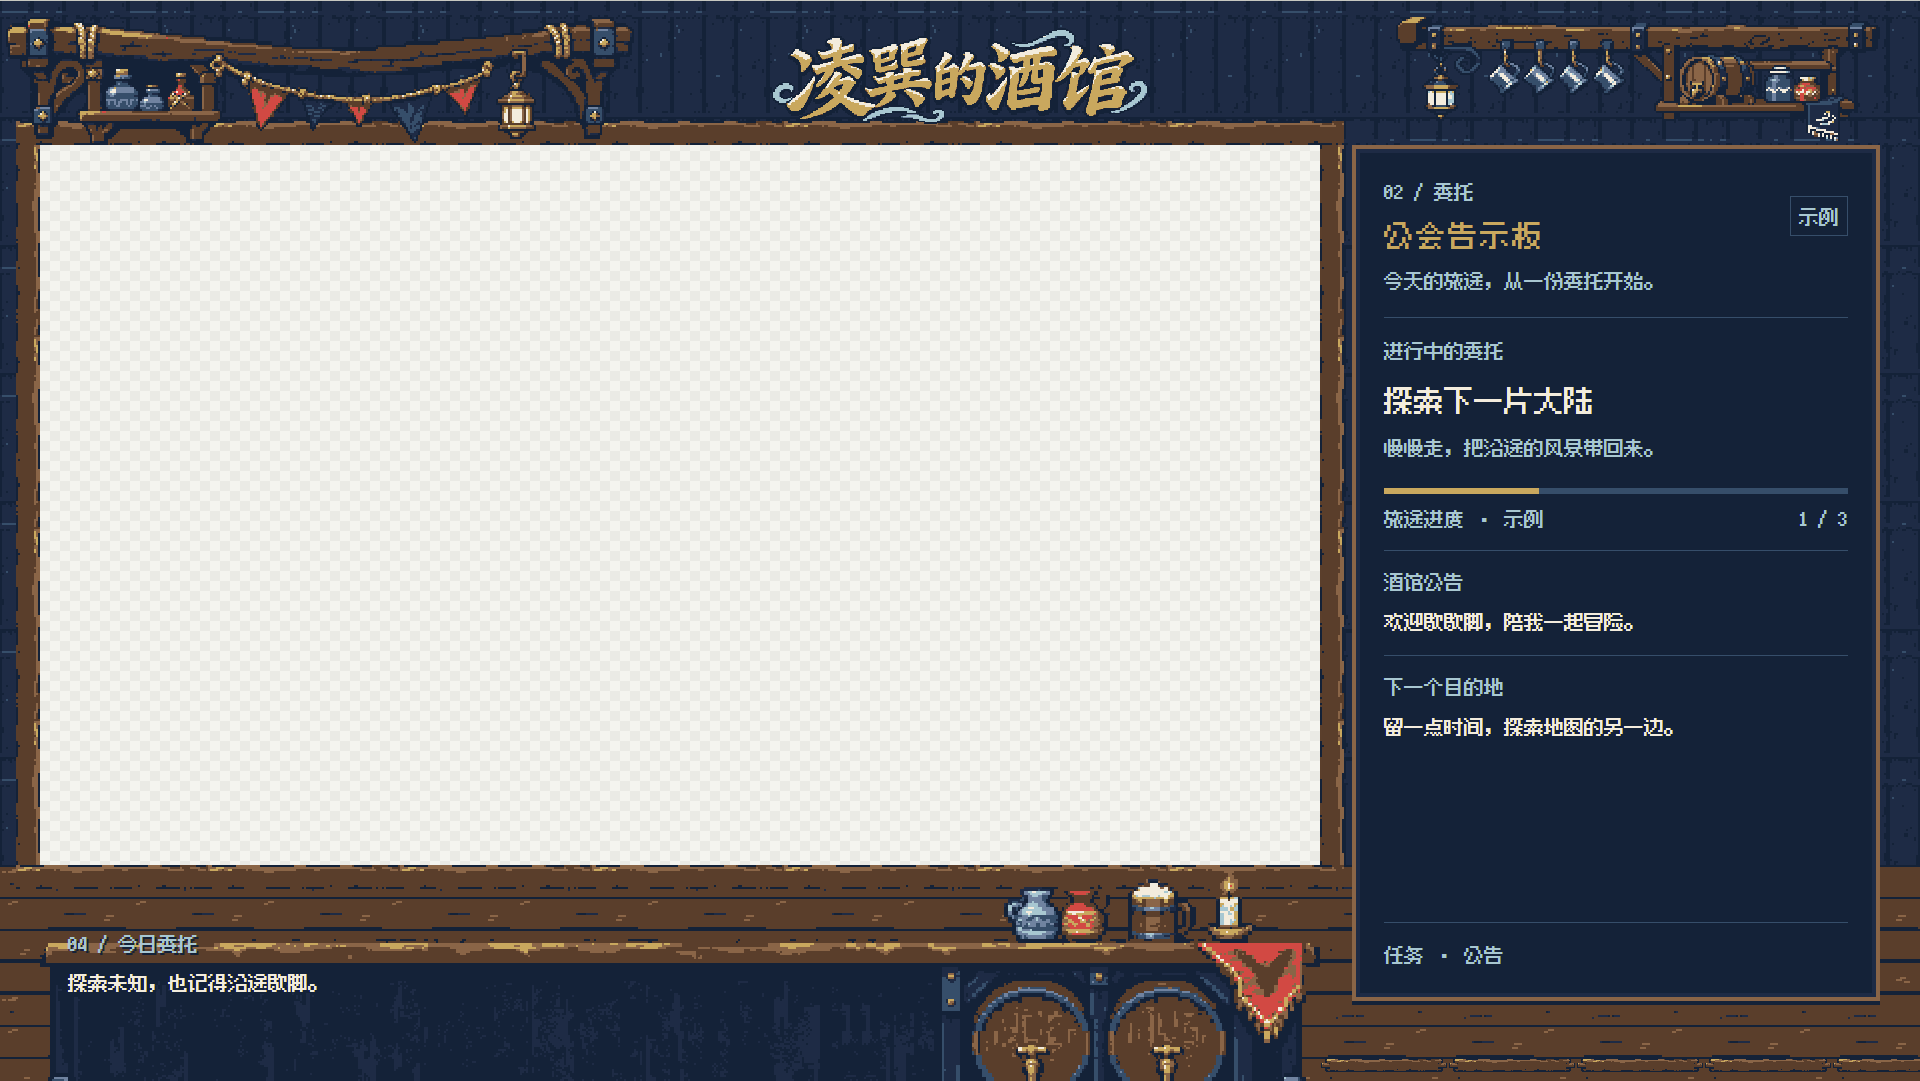
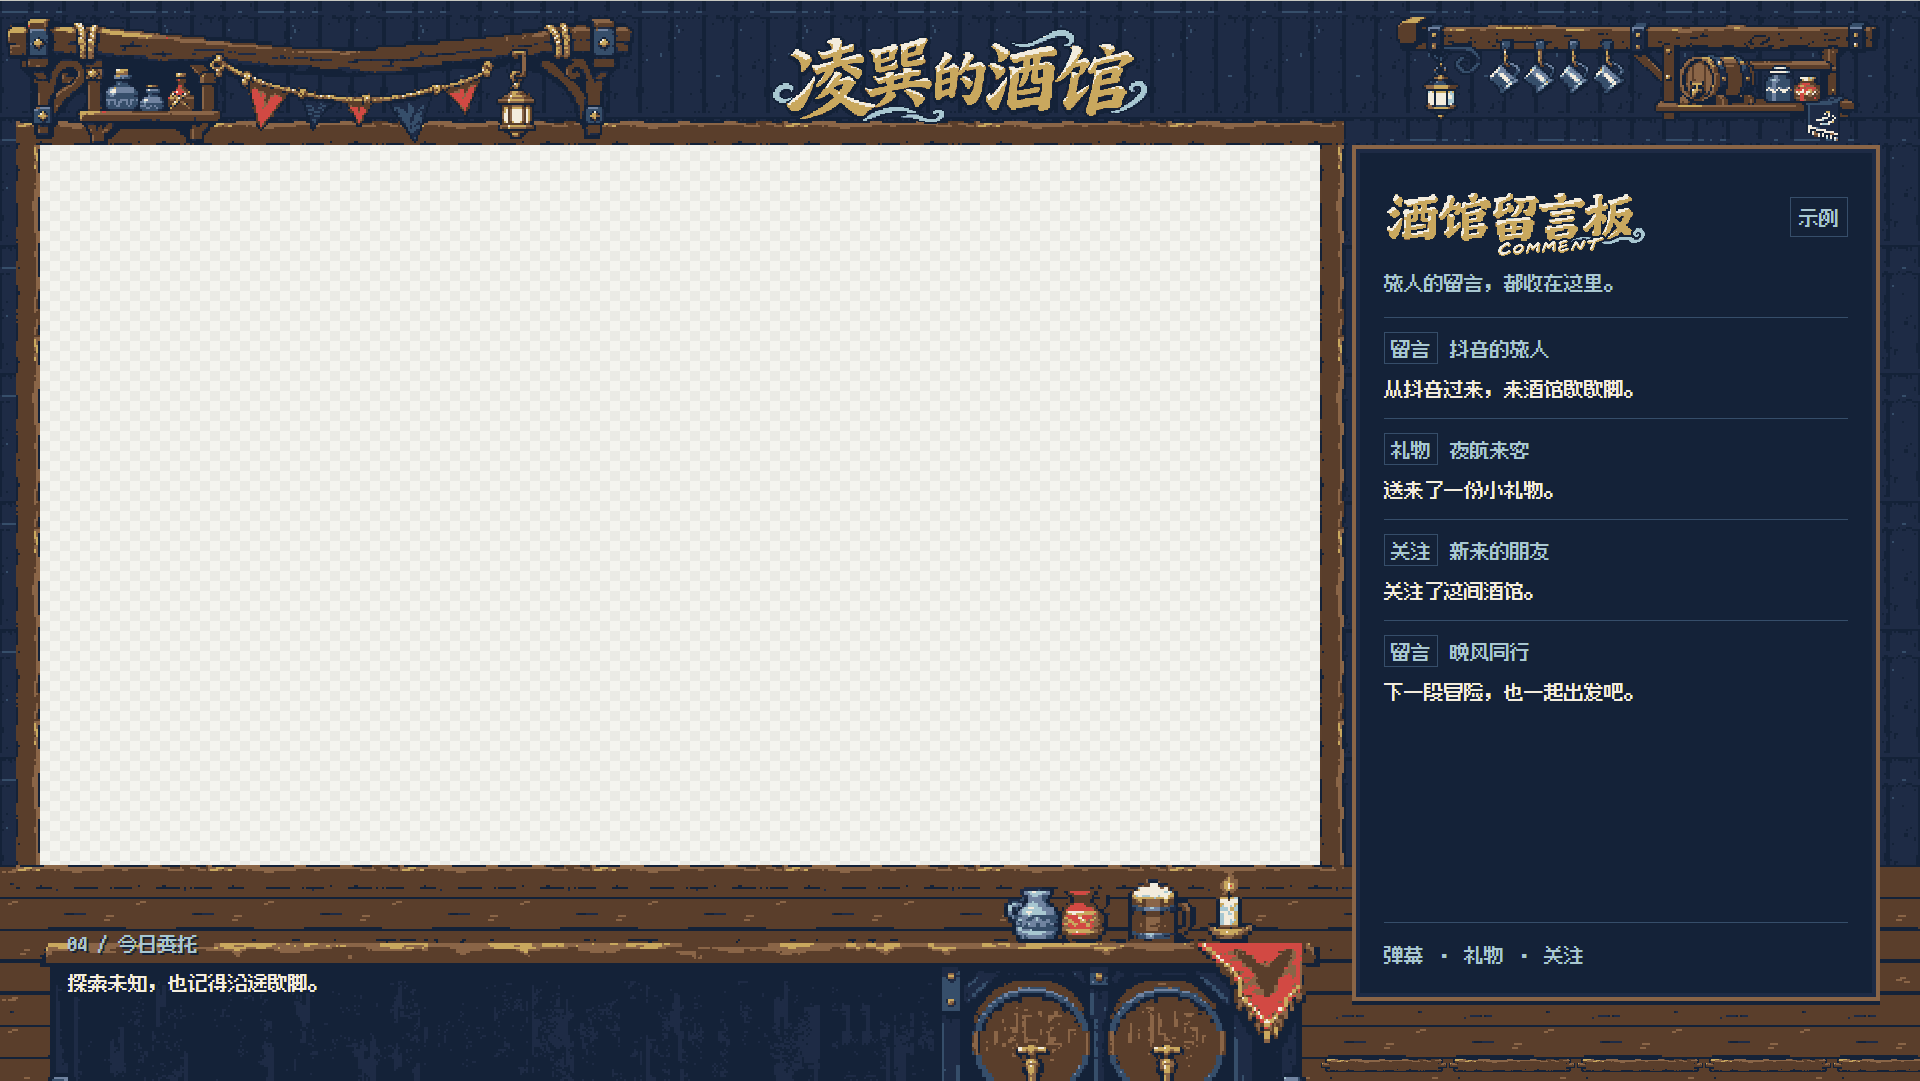
checkpoint: align platform appearance with separate message examples

Changed region(s): [[0.7188, 0.3053, 0.9688, 0.7021], [0.7188, 0.1526, 0.875, 0.2747], [0.7188, 0.8548, 0.7812, 0.8853]]

diff --git a/src/Overlay.tsx b/src/Overlay.tsx
@@ -5,52 +5,38 @@ export const platformNames: Record<Platform, string> = {
   douyin: '抖音',
 }
 
-const messages = [
-  { kind: '留言', name: '路过的冒险者', text: '晚上好，今天也来酒馆坐坐。' },
-  { kind: '礼物', name: '森林来信', text: '送来了一份小礼物。' },
-  { kind: '舰长', name: '远航的朋友', text: '加入了这次旅途。' },
-  { kind: 'SC', name: '山间的风', text: '愿下一段冒险，也有好风景。' },
-]
+const messages = {
+  bilibili: [
+    { kind: '留言', name: '路过的冒险者', text: '晚上好，今天也来酒馆坐坐。' },
+    { kind: '礼物', name: '森林来信', text: '送来了一份小礼物。' },
+    { kind: '舰长', name: '远航的朋友', text: '加入了这次旅途。' },
+    { kind: 'SC', name: '山间的风', text: '愿下一段冒险，也有好风景。' },
+  ],
+  douyin: [
+    { kind: '留言', name: '抖音的旅人', text: '从抖音过来，来酒馆歇歇脚。' },
+    { kind: '礼物', name: '夜航来客', text: '送来了一份小礼物。' },
+    { kind: '关注', name: '新来的朋友', text: '关注了这间酒馆。' },
+    { kind: '留言', name: '晚风同行', text: '下一段冒险，也一起出发吧。' },
+  ],
+}
 
-function BilibiliBoard({ lyrics }: { lyrics: boolean }) {
+function MessageBoard({ platform, lyrics }: { platform: Platform; lyrics: boolean }) {
   return (
-    <section className="side-board" aria-label="B 站留言板">
+    <section className="side-board" aria-label={`${platformNames[platform]}留言板`}>
       <div className="module-heading">
         <div><span className="module-index">02 / 留言</span><h2>酒馆留言板</h2></div>
         <span className="sample-tag">示例</span>
       </div>
       <p className="module-description">旅人的留言，都收在这里。</p>
       <div className="messages">
-        {messages.slice(0, lyrics ? 3 : 4).map(message => (
-          <div className="message" key={message.kind}>
+        {messages[platform].slice(0, lyrics ? 3 : 4).map(message => (
+          <div className="message" key={message.name}>
             <div className="message-meta"><span>{message.kind}</span><b>{message.name}</b></div>
             <p>{message.text}</p>
           </div>
         ))}
       </div>
-      <div className="board-footnote">弹幕 · 礼物 · 舰长 · SC</div>
-    </section>
-  )
-}
-
-function DouyinBoard({ lyrics }: { lyrics: boolean }) {
-  return (
-    <section className="side-board" aria-label="抖音任务与公告">
-      <div className="module-heading">
-        <div><span className="module-index">02 / 委托</span><h2>公会告示板</h2></div>
-        <span className="sample-tag">示例</span>
-      </div>
-      <p className="module-description">今天的旅途，从一份委托开始。</p>
-      <div className="quest">
-        <span className="small-label">进行中的委托</span>
-        <h3>探索下一片大陆</h3>
-        <p>慢慢走，把沿途的风景带回来。</p>
-        <div className="quest-progress"><i /></div>
-        <div className="quest-count"><span>旅途进度 · 示例</span><span>1 / 3</span></div>
-      </div>
-      <div className="notice"><span className="small-label">酒馆公告</span><p>欢迎歇歇脚，陪我一起冒险。</p></div>
-      {!lyrics && <div className="notice extra-notice"><span className="small-label">下一个目的地</span><p>留一点时间，探索地图的另一边。</p></div>}
-      <div className="board-footnote">任务 · 公告</div>
+      <div className="board-footnote">{platform === 'bilibili' ? '弹幕 · 礼物 · 舰长 · SC' : '弹幕 · 礼物 · 关注'}</div>
     </section>
   )
 }
@@ -73,7 +59,7 @@ export function Overlay({ platform, lyrics = true }: { platform: Platform; lyric
         <strong className="tavern-name">凌巽的酒馆</strong>
       </header>
       <aside className={`side-column ${lyrics ? '' : 'without-lyrics'}`}>
-        {platform === 'bilibili' ? <BilibiliBoard lyrics={lyrics} /> : <DouyinBoard lyrics={lyrics} />}
+        <MessageBoard platform={platform} lyrics={lyrics} />
         {lyrics && <Lyrics />}
       </aside>
       <section className="stream-info" aria-label="今日委托">

diff --git a/src/scene-review.css b/src/scene-review.css
@@ -6,10 +6,10 @@
 .scene-preview .tavern-name { visibility: hidden; }
 .scene-preview .side-board, .scene-preview .lyrics-board { border-width: 4px; box-shadow: inset 0 0 0 4px #1E2B45, 0 4px #142238; }
 .scene-preview .module-heading h2 { color: #C9A85E; font-size: 30px; line-height: 1.4; font-weight: 400; }
-.scene-preview [data-platform='bilibili'] .module-heading h2 { width: 288px; height: 80px; margin-top: 0; font-size: 0; background: url('../assets/generated/cp3/comment-wordmark.png') -15px center / 288px 96px no-repeat; image-rendering: pixelated; }
-.scene-preview [data-platform='bilibili'] .module-heading .module-index { display: none; }
-.scene-preview [data-platform='bilibili'] .messages { margin-top: 18px; }
-.scene-preview [data-platform='bilibili'] .message { padding: 14px 0; }
+.scene-preview .module-heading h2 { width: 288px; height: 80px; margin-top: 0; font-size: 0; background: url('../assets/generated/cp3/comment-wordmark.png') -15px center / 288px 96px no-repeat; image-rendering: pixelated; }
+.scene-preview .module-heading .module-index { display: none; }
+.scene-preview .messages { margin-top: 18px; }
+.scene-preview .message { padding: 14px 0; }
 .scene-preview .lyrics-board { padding: 16px 28px; }
 .scene-preview .lyrics-heading .module-index { display: block; width: 240px; height: 72px; font-size: 0; background: url('../assets/generated/cp3/playing-wordmark.png') -11px center / 240px 80px no-repeat; image-rendering: pixelated; }
 .scene-preview .song-title { margin-top: 6px; }

diff --git a/src/main.tsx b/src/main.tsx
@@ -113,7 +113,7 @@ function Preview({ scene = false }: { scene?: boolean }) {
 
       <div className="review-details">
         <section className="layout-notes" aria-labelledby="layout-notes-title"><p className="eyebrow">APPROVED LAYOUT</p><h2 id="layout-notes-title">已确认的区域比例。</h2>
-          <ol><li><span>01</span><div><h3>完整游戏区</h3><p>1280 × 720，16∶9 透明窗口。</p></div></li><li><span>02</span><div><h3>双平台右栏</h3><p>宽 528px，分别承载留言板与任务公告。</p></div></li><li><span>03</span><div><h3>歌词开关</h3><p>关闭后右侧主面板扩展。当前均为示例内容。</p></div></li></ol>
+          <ol><li><span>01</span><div><h3>完整游戏区</h3><p>1280 × 720，16∶9 透明窗口。</p></div></li><li><span>02</span><div><h3>双平台右栏</h3><p>宽 528px，同一套外观，各自显示本平台留言。</p></div></li><li><span>03</span><div><h3>歌词开关</h3><p>关闭后右侧主面板扩展。当前均为示例内容。</p></div></li></ol>
         </section>
         <section className="source-notes" aria-labelledby="source-notes-title"><p className="eyebrow">TWO INDEPENDENT SOURCES</p><h2 id="source-notes-title">同一间酒馆，两个窗口。</h2><p>这两个地址可同时打开。直播软件中的网页素材尺寸均设为 1920 × 1080。</p>
           <a href="/live/bilibili" target="_blank" rel="noreferrer"><strong>B 站</strong><code>/live/bilibili</code><span aria-hidden="true">↗</span></a>

diff --git a/docs/DANMAKU_SOURCES.md b/docs/DANMAKU_SOURCES.md
@@ -1,0 +1,35 @@
+# 双平台独立弹幕接入调研
+
+2026-11-07，香港时间。当前已完成文档核查，真实直播间连接等待接口阶段实测。
+
+## 用户确认的模式
+
+两个平台使用同一套背景、留言板排版和艺术字。B 站页面 `/live/bilibili` 显示 B 站事件，抖音页面 `/live/douyin` 显示抖音事件。每个平台单独保存直播间地址及适配器连接参数，分别管理状态和重连。后台修改一个平台的房间时，仅该平台重新连接。事件保留平台标识，两个页面的订阅分别过滤。
+
+直播间地址用于选择采集目标，网页源地址用于直播软件加载装饰画面。接入时需要将各平台原始数据解析为本项目事件格式，再投递至对应页面。
+
+## 抖音可获取弹幕的方式
+
+### 官方直播互动工具
+
+官方文档列有全量评论、用户昵称/ID 等能力。当前接入指南页首注明暂时停止新插件准入，因此本项目能否获得权限仍需实际申请结果确认。涉及网络请求的互动工具另有抖音云部署要求，需结合最终工具形态确认适用条件。
+
+[互动工具接入指南](https://partner.open-douyin.com/docs/resource/zh-CN/live-interactive-tools/introduction/interactive-tools-guide)
+
+[直播互动工具接入抖音云指南](https://partner.open-douyin.com/docs/resource/zh-CN/live-interactive-tools/development/douyin-cloud/live-interaction-guide-dycloud)
+
+官方直播小玩法的评论能力用于挂载玩法后的特殊评论指令，并有形态及提案要求，选择方案时需核对其适用范围。
+
+[直播间评论互动能力](https://partner.open-douyin.com/docs/resource/zh-CN/interaction/jierushuoming/hudongshuju/pinglunshuju/)
+
+[直播玩法简介](https://partner.open-douyin.com/docs/resource/zh-CN/interaction/introduction/live-play/1)
+
+### 第三方采集工具
+
+`saermart/DouyinLiveWebFetcher` 的作者提供网页版直播弹幕与互动消息采集实现，README 记有 2026-08-26 的成功测试记录。仓库标记 AGPL-3.0，README 同时提出学习研究及商业使用相关声明，后续选型需核对这些条款。该项目可证明存在技术实现路径，其在本机和目标直播间的可用性仍需实测。平台接口或签名变化会影响可用性。
+
+[项目原始仓库、README 及许可](https://github.com/saermart/DouyinLiveWebFetcher)
+
+## 本项目的阶段安排
+
+CP3 统一两平台留言板外观，并各自展示本平台静态示例。CP5 提供分平台房间和连接设置。CP7 根据可获得的官方权限或已核验的外部采集器，分别验证 B 站与抖音的真实消息、断线重连、重复消息和互不串台。连接成功以实际收到对应直播间事件为准。

diff --git a/docs/PROJECT_SPEC.md b/docs/PROJECT_SPEC.md
@@ -11,7 +11,7 @@
 | 路由 | 职责 | 当前布局 |
 | --- | --- | --- |
 | `/live/bilibili` | B 站独立直播源 | 透明线框与明确标注的示例内容 |
-| `/live/douyin` | 抖音独立直播源 | 任务公告线框与明确标注的示例内容 |
+| `/live/douyin` | 抖音独立直播源 | 留言板线框与明确标注的抖音示例内容 |
 | `/admin` | 统一管理后台 | 只读系统状态和页面入口 |
 | `/preview` | 布局预览 | 历史已确认布局，支持歌词开关的线框展示 |
 | `/assets/review` | CP2 素材展示板 | 已验收的三件独立素材 |
@@ -23,7 +23,7 @@
 
 ## 后续功能
 
-B 站提供统一互动消息流，纳入弹幕、礼物、连续赠礼、大航海和 SC。抖音首期提供公会任务、今日公告和目标卡。网易云适配器提供经过实测的歌名、艺术家、播放状态、进度与同步歌词。歌词关闭后右侧主面板扩展。
+B 站与抖音采用相同的酒馆背景、艺术字与留言板样式。每个平台通过自己的专属页面显示本平台弹幕，分别设置直播间地址，分别连接、保存设置和报告状态。B 站互动消息可包含弹幕、礼物、连续赠礼、大航海和 SC，抖音事件按实际适配器支持范围处理。网易云适配器提供经过实测的歌名、艺术家、播放状态、进度与同步歌词。歌词关闭后右侧主面板扩展。
 
 场景按后续检查点提供游戏直播、酒馆夜话、开播等待、暂时离席、酒馆打烊。统一后台最终支持双平台预览、场景切换、全局委托、平台独立设置、状态监控、设置保存和备份恢复。
 
@@ -51,6 +51,8 @@ B 站提供统一互动消息流，纳入弹幕、礼物、连续赠礼、大航
 酒杯、木桌和蜡烛三个原创透明像素 PNG 已于 2026-11-07 获用户验收，可作为 CP3 场景组合素材。
 
 ## CP3 当前范围
+
+用户明确将抖音从任务公告模式调整为留言板模式。两个平台外观一致，各自使用独立消息列表和专属路由。CP3 交付平台标记清楚的静态示例，真实房间地址设置与采集连接按后续配置及接口检查点验收。方法调研见 `DANMAKU_SOURCES.md`。
 
 CP3 首版因道具孤立、场景缺乏整体视觉焦点而返修。返修可增加透明的融合式酒馆场景组，并单独生成“凌巽的酒馆”五字标题图；场景预览中的栏目和 UI 文案使用随项目分发、覆盖简体中文的像素字体。通过离线脚本和可编辑 JSON 组合 1920×1080 无 UI 背景，继续遵守 V2 色板与真实 alpha。透明游戏区保持 x=40、y=144、1280×720，所有已验收 CP1 区域位置和比例不变；只在 `/scene/review` 验收，不改动直播源或推进 CP4。
 

diff --git a/docs/CP3_REVIEW.md b/docs/CP3_REVIEW.md
@@ -4,6 +4,8 @@
 
 ## 当前预览
 
+本轮追加双平台外观统一，抖音由任务公告改为与 B 站相同样式的留言板。两端各自展示本平台静态示例，分别保留专属路由。真实房间地址设置和采集连接按 CP5、CP7 验收，方案与当前接入限制见 `DANMAKU_SOURCES.md`。
+
 [CP3 场景验收页](http://127.0.0.1:3000/scene/review)
 
 本轮重做梁架与吧台组合，左右上角采用不同陈设，并制作三份独立标题图。留言板和播放区的中英文艺术字共同生成为透明图像，英文较小并与中文做轻微前后叠压。栏目正文使用本地 Fusion Pixel Font 10px 简中比例版。
@@ -43,6 +45,7 @@
 | 配方复现 | 移动物件后哈希改变，恢复配方后与交付背景哈希一致 |
 | 非法配置 | 八类非法布局及四类非法源区域被拒绝，已有输出保留 |
 | 浏览器场景 | Edge 中 B 站/抖音和歌词开/关四种组合通过 |
+| 双平台外观和示例 | 两端背景和标题样式一致，各自专属路由只展示本平台静态示例，四种组合通过 |
 | 排版 | 四种组合的面板内容完整，今日委托和歌词文字处于容器内 |
 | 下载 | 十二件素材及背景共十三个 PNG 的 SHA256 与仓库一致，布局 JSON 一致 |
 | 375px 窄窗口 | 页面滚动宽度为 375px |
@@ -68,8 +71,9 @@
 - `assets/fonts/fusion-pixel/` 中的 WOFF2、OFL、三份上游许可及来源记录。
 - `assets/layouts/cp3-tavern.json`、`assets/backgrounds/cp3-tavern.png`、`assets/manifest.json`。
 - `scripts/prepare-cp2-assets.ps1`、`scripts/compose-cp3-scene.ps1`。
-- `src/main.tsx`、`src/scene-review.css`。
+- `src/Overlay.tsx`、`src/main.tsx`、`src/scene-review.css`。
 - `AGENTS.md`、`README.md`、`docs/V2_BRIEF.md`、`docs/PROJECT_SPEC.md`、`docs/DESIGN_SYSTEM.md`、`docs/ASSET_POLICY.md`、`docs/ARCHITECTURE.md`、`docs/CHECKPOINTS.md`、`docs/DECISIONS.md`、`docs/TEST_PLAN.md`。
 - 本报告、六份机器检查记录和七张返修截图。
+- `docs/DANMAKU_SOURCES.md` 记录抖音官方及第三方接入方式、来源链接和待实测条件。
 
-本地 Git 快照标签为 `checkpoint/cp3-revision`，提交号由聊天交付。下一检查点等待用户明确验收。直播客户端的透明显示和音画捕获等待 CP8 实机验收。
+美术返修快照标签为 `checkpoint/cp3-revision`，双平台外观统一的追加快照为 `checkpoint/cp3-platforms`，提交号由聊天交付。下一检查点等待用户明确验收。直播客户端的透明显示和音画捕获等待 CP8 实机验收。

diff --git a/docs/V2_BRIEF.md b/docs/V2_BRIEF.md
@@ -842,17 +842,9 @@ assets/manifest.json
 
 ## 7.3 抖音平台
 
-第一阶段不依赖非官方弹幕采集工具。
+用户于 2026-11-07 将抖音调整为与 B 站外观一致的独立酒馆留言板和歌词组件。两个平台各有专属页面，分别设置直播间地址，分别接收本平台事件。静态预览采用明确标记的本平台示例。CP5 提供独立设置，CP7 验证实际弹幕来源、连接状态和平台隔离。
 
-右侧改为：
-
-- 公会任务卡
-- 今日公告
-- 游戏目标
-- 直播信息
-- 歌词组件
-
-不显示没有数据的空聊天框。
+抖音接入需区分开放平台工具能力与第三方采集方式，按实际可获得的权限、适用范围及许可选型。调研记录见 `DANMAKU_SOURCES.md`。
 
 ## 7.4 网易云歌词
 
@@ -873,7 +865,7 @@ assets/manifest.json
 
 B 站聊天区自动扩展。
 
-抖音公会任务区自动扩展。
+抖音留言板自动扩展。
 
 歌词来源和网易云播放器连接方式必须经过实际验证。
 
@@ -956,7 +948,7 @@ B 站聊天区自动扩展。
 | CP4 | 歌词、聊天、礼物组件的模拟交互 |
 | CP5 | 双平台页面及管理后台完整交互 |
 | CP6 | 网易云真实播放状态与歌词 |
-| CP7 | B 站直播互动事件接入 |
+| CP7 | B 站与抖音独立直播互动事件接入 |
 | CP8 | 实际直播软件、双平台并发与跨电脑迁移验收 |
 
 ## 9.1 所有 Checkpoint 的通用规则
@@ -1100,9 +1092,9 @@ CP0 的成功标准：
 
 不得通过模拟数据冒充实际播放器接口。
 
-## 9.9 CP7：B 站互动事件
+## 9.9 CP7：双平台独立互动事件
 
-接入已经获得授权、实际可用的 B 站直播事件接口。
+接入已经获得授权、实际可用的 B 站直播事件接口，并验证选定的抖音弹幕来源。两个平台分别配置房间地址与连接参数，分别测试连接、重连及消息投递。
 
 测试：
 

diff --git a/docs/ARCHITECTURE.md b/docs/ARCHITECTURE.md
@@ -16,6 +16,8 @@ CP3 制作复用 `scripts/prepare-cp2-assets.ps1` 的取样与色板流程，并
 
 ## 适配器边界
 
+B 站和抖音各自配置直播间 URL/房间号以及实际使用的采集端点。后端按平台创建独立连接、重连状态和消息队列，将事件保留平台标识后投递至对应专属页面。`/live/bilibili` 只订阅 B 站事件，`/live/douyin` 只订阅抖音事件。两页面复用视觉组件，分别传入本平台消息。CP5 实现配置编辑与隔离，CP7 验证两个平台的真实弹幕来源。
+
 网易云适配器未来输出歌曲、艺术家、播放状态、进度和同步歌词，具体播放器桥接方式在 CP6 实测后选择。B 站适配器未来将授权事件转换成统一互动流，包含重连和连续赠礼处理。CP0 仅显示真实的未接入/未配置状态。
 
 适配器内部错误进入组件状态和日志，网页服务继续运行。外部 Now Playing 程序属于可选依赖，启动器只能检测或管理项目明确拥有的子进程。共享歌词服务和平台独立控制在 CP5–CP7 分步实现。

diff --git a/docs/DECISIONS.md b/docs/DECISIONS.md
@@ -1,5 +1,7 @@
 # 已确认决定
 
+2026-11-07 用户确认抖音和 B 站使用同一套酒馆背景与留言板设计，各自通过专属页面、独立房间设置显示本平台弹幕。CP3 据此更新抖音预览，后续配置与真实适配器按检查点验证。
+
 | 时间 | 决定 | 当前处理 |
 | --- | --- | --- |
 | V2 之前 | 首期只做 1920×1080 横屏，B 站与抖音同时运行 | 保留 |
